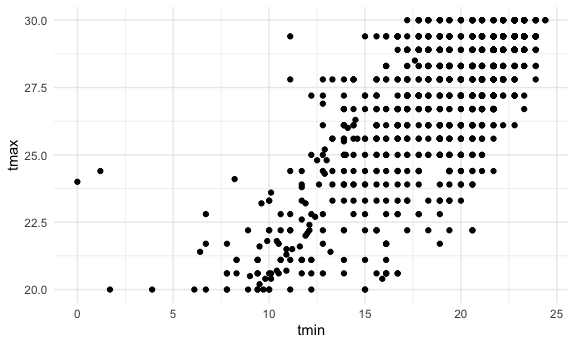
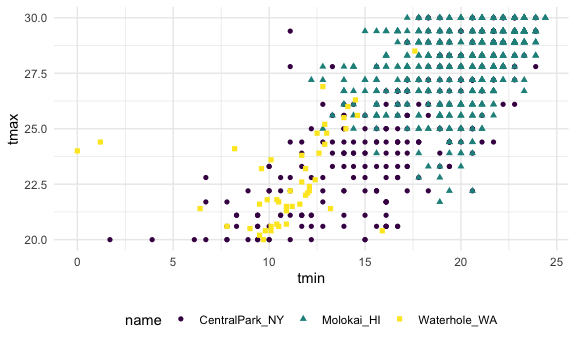
learning other things

diff --git a/EDA.md b/EDA.md
@@ -82,7 +82,7 @@ look at data again
 ``` r
 weather_df %>% 
   filter(tmax >= 20, tmax <= 30) %>% 
-  ggplot(aes(x = tmin, y = tmax), color = name, shape = name) +
+  ggplot(aes(x = tmin, y = tmax, color = name, shape = name)) +
   geom_point()
 ```
 
@@ -210,3 +210,68 @@ weather_df %>%
     ##  9 2021-09-01     22.4       17.5    200. 
     ## 10 2021-10-01     18.2       13.9    112. 
     ## # ℹ 14 more rows
+
+This is still a dataframe note: `group_by(name, month)` = there are 24
+months and 3 names and each distinct combination of those will be a
+group
+
+``` r
+weather_df %>% 
+  group_by(name, month) %>% 
+  summarize(
+    mean_tmax = mean(tmax, na.rm = TRUE)
+  ) %>% 
+  ggplot(aes(x = month, y = mean_tmax, color = name)) +
+  geom_point() +
+  geom_line()
+```
+
+    ## `summarise()` has grouped output by 'name'. You can override using the
+    ## `.groups` argument.
+
+<img src="EDA_files/figure-gfm/unnamed-chunk-12-1.png" width="90%" />
+
+sometimes format results more nicely
+
+``` r
+weather_df %>% 
+  group_by(name, month) %>% 
+  summarize(
+    mean_tmax = mean(tmax, na.rm = TRUE)
+  ) %>% 
+  pivot_wider(
+    names_from = name,
+    values_from = mean_tmax
+  ) %>% 
+  knitr::kable(digits = 2)
+```
+
+    ## `summarise()` has grouped output by 'name'. You can override using the
+    ## `.groups` argument.
+
+| month      | CentralPark_NY | Molokai_HI | Waterhole_WA |
+|:-----------|---------------:|-----------:|-------------:|
+| 2021-01-01 |           4.27 |      27.62 |         0.80 |
+| 2021-02-01 |           3.87 |      26.37 |        -0.79 |
+| 2021-03-01 |          12.29 |      25.86 |         2.62 |
+| 2021-04-01 |          17.61 |      26.57 |         6.10 |
+| 2021-05-01 |          22.08 |      28.58 |         8.20 |
+| 2021-06-01 |          28.06 |      29.59 |        15.25 |
+| 2021-07-01 |          28.35 |      29.99 |        17.34 |
+| 2021-08-01 |          28.81 |      29.52 |        17.15 |
+| 2021-09-01 |          24.79 |      29.67 |        12.65 |
+| 2021-10-01 |          19.93 |      29.13 |         5.48 |
+| 2021-11-01 |          11.54 |      28.85 |         3.53 |
+| 2021-12-01 |           9.59 |      26.19 |        -2.10 |
+| 2022-01-01 |           2.85 |      26.61 |         3.61 |
+| 2022-02-01 |           7.65 |      26.83 |         2.99 |
+| 2022-03-01 |          11.99 |      27.73 |         3.42 |
+| 2022-04-01 |          15.81 |      27.72 |         2.46 |
+| 2022-05-01 |          22.25 |      28.28 |         5.81 |
+| 2022-06-01 |          26.09 |      29.16 |        11.13 |
+| 2022-07-01 |          30.72 |      29.53 |        15.86 |
+| 2022-08-01 |          30.50 |      30.70 |        18.83 |
+| 2022-09-01 |          24.92 |      30.41 |        15.21 |
+| 2022-10-01 |          17.43 |      29.22 |        11.88 |
+| 2022-11-01 |          14.02 |      27.96 |         2.14 |
+| 2022-12-01 |           6.76 |      27.35 |        -0.46 |
